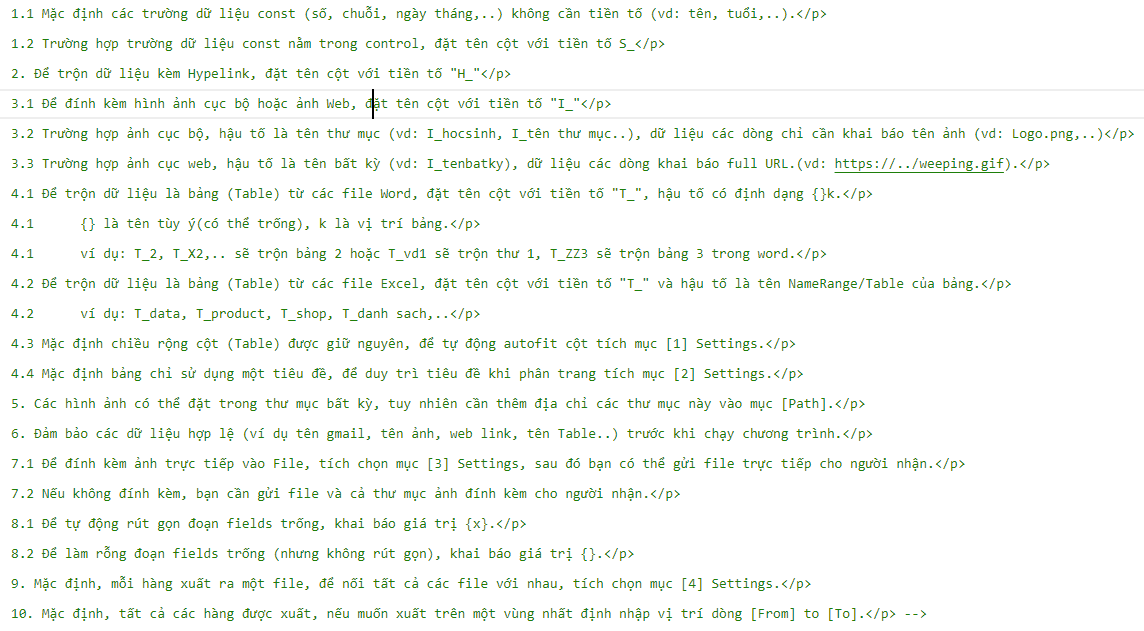
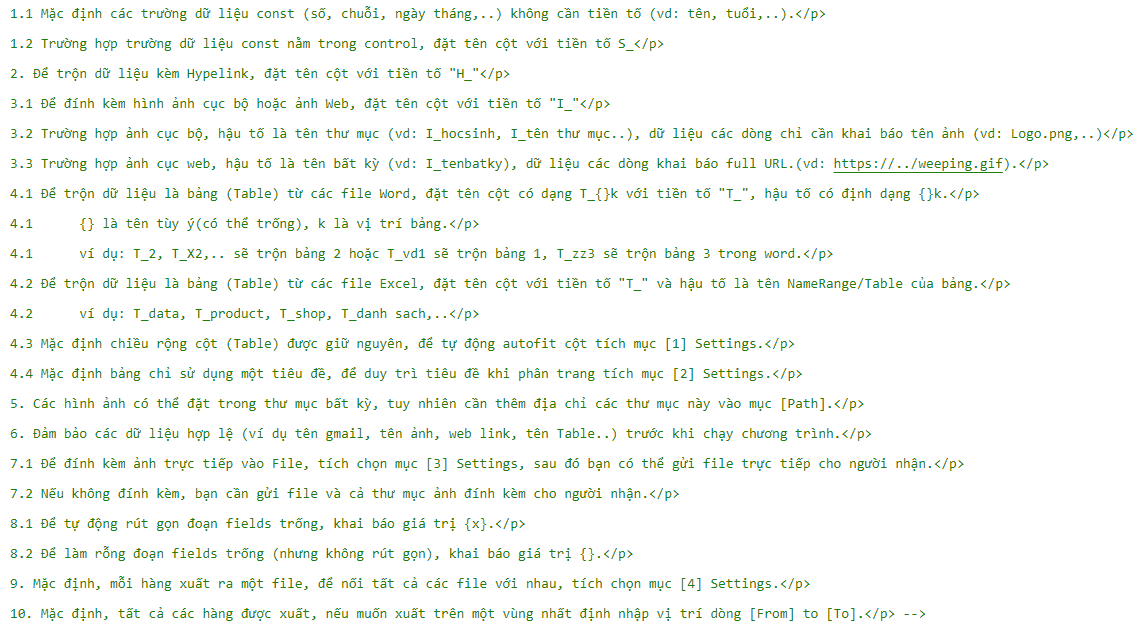
ok

diff --git a/r.mailmerge.html b/r.mailmerge.html
@@ -54,9 +54,9 @@
         <p>&nbsp;   3.1 Để đính kèm hình ảnh cục bộ hoặc ảnh Web, đặt tên cột với tiền tố "I_"</p>
         <p>&nbsp;   3.2 Trường hợp ảnh cục bộ, hậu tố là tên thư mục (vd: I_hocsinh, I_tên thư mục..), dữ liệu các dòng chỉ cần khai báo tên ảnh (vd: Logo.png,..)</p>
         <p>&nbsp;   3.3 Trường hợp ảnh cục web, hậu tố là tên bất kỳ (vd: I_tenbatky), dữ liệu các dòng khai báo full URL.(vd: https://../weeping.gif).</p>
-        <p>&nbsp;   4.1 Để trộn dữ liệu là bảng (Table) từ các file Word, đặt tên cột với tiền tố "T_", hậu tố có định dạng {}k.</p>
+        <p>&nbsp;   4.1 Để trộn dữ liệu là bảng (Table) từ các file Word, đặt tên cột có dạng T_{}k với tiền tố "T_", hậu tố có định dạng {}k.</p>
         <p>&nbsp;   4.1      {} là tên tùy ý(có thể trống), k là vị trí bảng.</p>
-        <p>&nbsp;   4.1      ví dụ: T_2, T_X2,.. sẽ trộn bảng 2 hoặc T_vd1 sẽ trộn thư 1, T_ZZ3 sẽ trộn bảng 3 trong word.</p>
+        <p>&nbsp;   4.1      ví dụ: T_2, T_X2,.. sẽ trộn bảng 2 hoặc T_vd1 sẽ trộn bảng 1, T_zz3 sẽ trộn bảng 3 trong word.</p>
         <p>&nbsp;   4.2 Để trộn dữ liệu là bảng (Table) từ các file Excel, đặt tên cột với tiền tố "T_" và hậu tố là tên NameRange/Table của bảng.</p>
         <p>&nbsp;   4.2      ví dụ: T_data, T_product, T_shop, T_danh sach,..</p>
         <p>&nbsp;   4.3 Mặc định chiều rộng cột (Table) được giữ nguyên, để tự động autofit cột tích mục [1] Settings.</p> 
